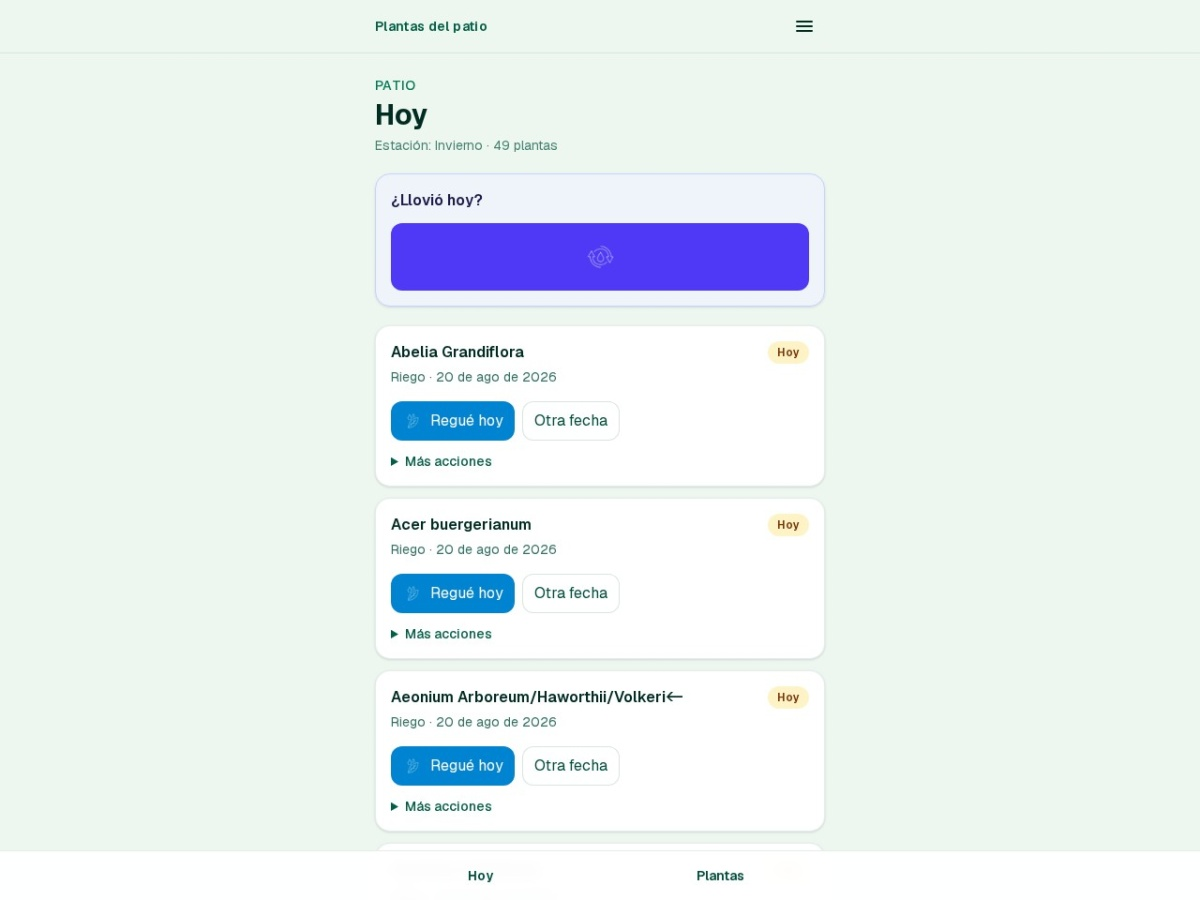
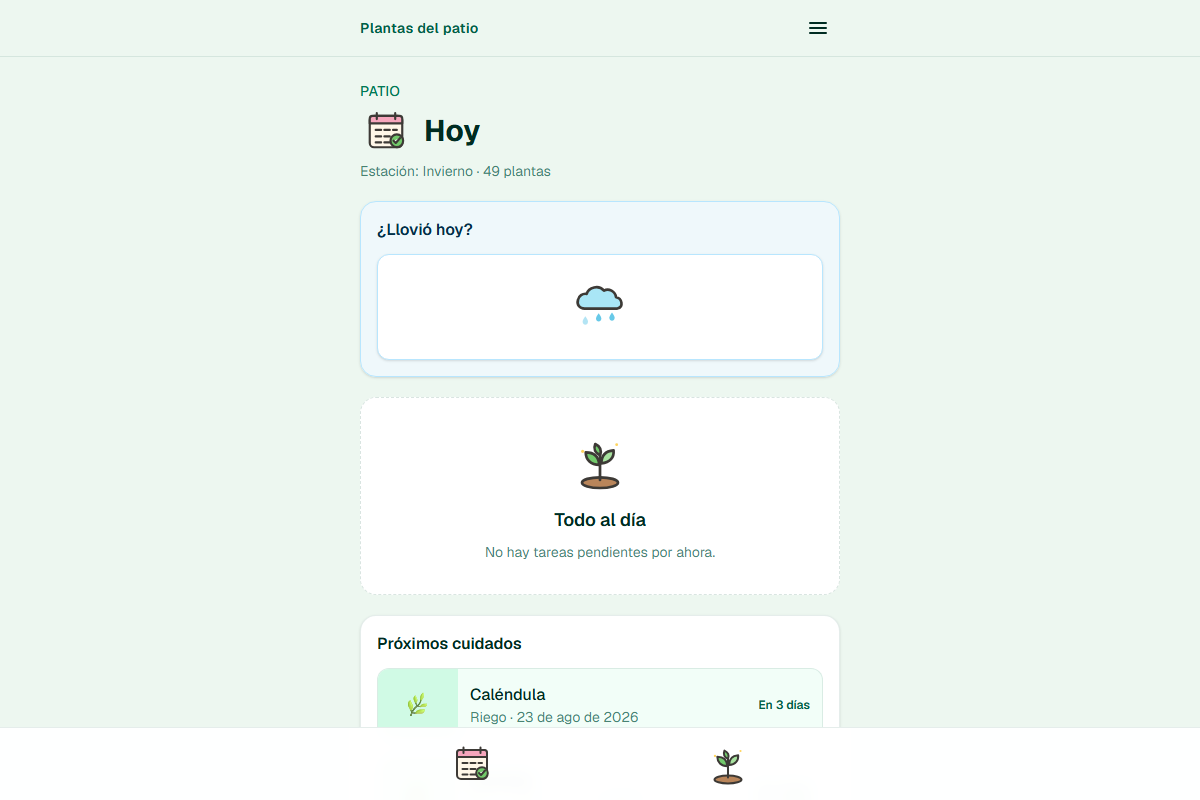
Actualizar la preview de Plantas con el estilo nuevo.
Usa la captura local fija para no depender de mShots en caché.

diff --git a/src/app/features/projects/projects.component.ts b/src/app/features/projects/projects.component.ts
@@ -16,6 +16,8 @@ interface ProjectDef {
   howLayout: 'flow' | 'points';
   stepCount: number;
   hasFootnote?: boolean;
+  /** Prefer local screenshot over iframe/mShots (e.g. HTTP demos with stale captures). */
+  preferStatic?: boolean;
 }
 
 export type LocalizedProject = Project & { id: string };
@@ -44,6 +46,7 @@ export class ProjectsComponent implements OnDestroy {
       howLayout: 'flow',
       stepCount: 5,
       hasFootnote: true,
+      preferStatic: true,
     },
     {
       id: 'recetas',
@@ -86,7 +89,11 @@ export class ProjectsComponent implements OnDestroy {
 
   constructor() {
     for (const def of this.projectDefs) {
-      this.initPreview(def.id, def.demoLink);
+      if (def.preferStatic) {
+        this.previewMode[def.id] = 'static';
+      } else {
+        this.initPreview(def.id, def.demoLink);
+      }
     }
   }
 
